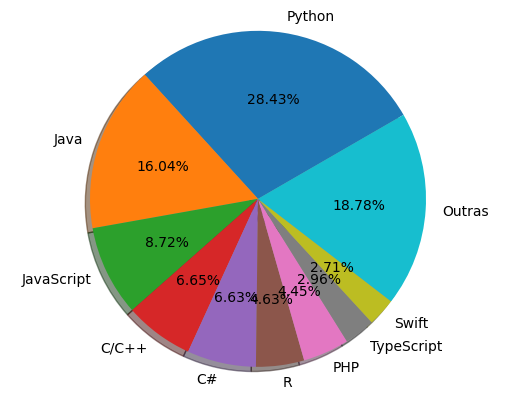
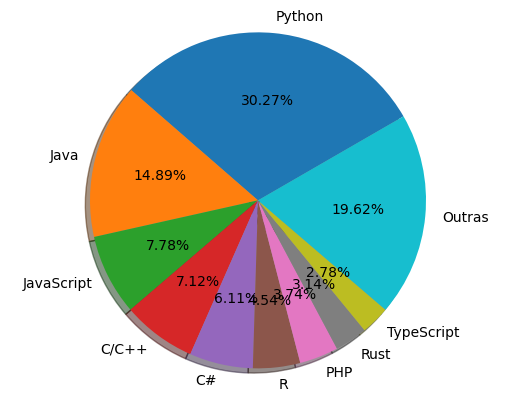
Build site at 2025-03-21 12:40:29 UTC

diff --git a/docs/popularidade/index.html b/docs/popularidade/index.html
@@ -1415,181 +1415,187 @@
     <tr>
       <td style="text-align: center">1</td>
       <td style="text-align: left">Python</td>
-      <td style="text-align: center">28.43</td>
-      <td style="text-align: center">+0.7</td>
+      <td style="text-align: center">30.27</td>
+      <td style="text-align: center">+1.8</td>
     </tr>
     <tr>
       <td style="text-align: center">2</td>
       <td style="text-align: left">Java</td>
-      <td style="text-align: center">16.04</td>
-      <td style="text-align: center">-0.1</td>
+      <td style="text-align: center">14.89</td>
+      <td style="text-align: center">-0.9</td>
     </tr>
     <tr>
       <td style="text-align: center">3</td>
       <td style="text-align: left">JavaScript</td>
-      <td style="text-align: center">8.72</td>
-      <td style="text-align: center">-0.8</td>
+      <td style="text-align: center">7.78</td>
+      <td style="text-align: center">-0.9</td>
     </tr>
     <tr>
       <td style="text-align: center">4</td>
       <td style="text-align: left">C/C++</td>
-      <td style="text-align: center">6.65</td>
-      <td style="text-align: center">+0.2</td>
+      <td style="text-align: center">7.12</td>
+      <td style="text-align: center">+0.6</td>
     </tr>
     <tr>
       <td style="text-align: center">5</td>
       <td style="text-align: left">C#</td>
-      <td style="text-align: center">6.63</td>
-      <td style="text-align: center">-0.2</td>
+      <td style="text-align: center">6.11</td>
+      <td style="text-align: center">-0.6</td>
     </tr>
     <tr>
       <td style="text-align: center">6</td>
       <td style="text-align: left">R</td>
-      <td style="text-align: center">4.63</td>
-      <td style="text-align: center">+0.2</td>
+      <td style="text-align: center">4.54</td>
+      <td style="text-align: center">-0.1</td>
     </tr>
     <tr>
       <td style="text-align: center">7</td>
       <td style="text-align: left">PHP</td>
-      <td style="text-align: center">4.45</td>
+      <td style="text-align: center">3.74</td>
       <td style="text-align: center">-0.7</td>
     </tr>
     <tr>
       <td style="text-align: center">8</td>
-      <td style="text-align: left">TypeScript</td>
-      <td style="text-align: center">2.96</td>
-      <td style="text-align: center">+0.0</td>
+      <td style="text-align: left">Rust</td>
+      <td style="text-align: center">3.14</td>
+      <td style="text-align: center">+0.6</td>
     </tr>
     <tr>
       <td style="text-align: center">9</td>
-      <td style="text-align: left">Swift</td>
-      <td style="text-align: center">2.71</td>
-      <td style="text-align: center">+0.4</td>
+      <td style="text-align: left">TypeScript</td>
+      <td style="text-align: center">2.78</td>
+      <td style="text-align: center">-0.1</td>
     </tr>
     <tr>
       <td style="text-align: center">10</td>
-      <td style="text-align: left">Rust</td>
-      <td style="text-align: center">2.53</td>
-      <td style="text-align: center">+0.4</td>
+      <td style="text-align: left">Objective-C</td>
+      <td style="text-align: center">2.74</td>
+      <td style="text-align: center">+0.3</td>
     </tr>
     <tr>
       <td style="text-align: center">11</td>
-      <td style="text-align: left">Objective-C</td>
-      <td style="text-align: center">2.43</td>
-      <td style="text-align: center">+0.3</td>
+      <td style="text-align: left">Swift</td>
+      <td style="text-align: center">2.44</td>
+      <td style="text-align: center">-0.3</td>
     </tr>
     <tr>
       <td style="text-align: center">12</td>
       <td style="text-align: left">Go</td>
-      <td style="text-align: center">2.16</td>
-      <td style="text-align: center">+0.2</td>
+      <td style="text-align: center">2.06</td>
+      <td style="text-align: center">-0.2</td>
     </tr>
     <tr>
       <td style="text-align: center">13</td>
       <td style="text-align: left">Kotlin</td>
-      <td style="text-align: center">1.93</td>
+      <td style="text-align: center">1.9</td>
       <td style="text-align: center">+0.0</td>
     </tr>
     <tr>
       <td style="text-align: center">14</td>
       <td style="text-align: left">Matlab</td>
-      <td style="text-align: center">1.54</td>
-      <td style="text-align: center">-0.1</td>
+      <td style="text-align: center">1.68</td>
+      <td style="text-align: center">+0.1</td>
     </tr>
     <tr>
       <td style="text-align: center">15</td>
-      <td style="text-align: left">Dart</td>
-      <td style="text-align: center">1.01</td>
-      <td style="text-align: center">+0.2</td>
+      <td style="text-align: left">Ada</td>
+      <td style="text-align: center">1.33</td>
+      <td style="text-align: center">+0.3</td>
     </tr>
     <tr>
       <td style="text-align: center">16</td>
-      <td style="text-align: left">Ada</td>
-      <td style="text-align: center">0.99</td>
+      <td style="text-align: left">Dart</td>
+      <td style="text-align: center">1.03</td>
       <td style="text-align: center">-0.0</td>
     </tr>
     <tr>
       <td style="text-align: center">17</td>
       <td style="text-align: left">Ruby</td>
-      <td style="text-align: center">0.97</td>
-      <td style="text-align: center">-0.1</td>
+      <td style="text-align: center">1.01</td>
+      <td style="text-align: center">+0.0</td>
     </tr>
     <tr>
       <td style="text-align: center">18</td>
-      <td style="text-align: left">VBA</td>
-      <td style="text-align: center">0.91</td>
-      <td style="text-align: center">-0.0</td>
+      <td style="text-align: left">Lua</td>
+      <td style="text-align: center">0.96</td>
+      <td style="text-align: center">+0.2</td>
     </tr>
     <tr>
       <td style="text-align: center">19</td>
       <td style="text-align: left">Powershell</td>
-      <td style="text-align: center">0.76</td>
-      <td style="text-align: center">-0.2</td>
+      <td style="text-align: center">0.95</td>
+      <td style="text-align: center">+0.0</td>
     </tr>
     <tr>
       <td style="text-align: center">20</td>
-      <td style="text-align: left">Lua</td>
-      <td style="text-align: center">0.61</td>
+      <td style="text-align: left">VBA</td>
+      <td style="text-align: center">0.9</td>
       <td style="text-align: center">+0.0</td>
     </tr>
     <tr>
       <td style="text-align: center">21</td>
-      <td style="text-align: left">Abap</td>
-      <td style="text-align: center">0.6</td>
-      <td style="text-align: center">+0.1</td>
+      <td style="text-align: left">Scala</td>
+      <td style="text-align: center">0.59</td>
+      <td style="text-align: center">-0.0</td>
     </tr>
     <tr>
       <td style="text-align: center">22</td>
-      <td style="text-align: left">Scala</td>
-      <td style="text-align: center">0.58</td>
-      <td style="text-align: center">-0.1</td>
+      <td style="text-align: left">Abap</td>
+      <td style="text-align: center">0.51</td>
+      <td style="text-align: center">-0.0</td>
     </tr>
     <tr>
       <td style="text-align: center">23</td>
       <td style="text-align: left">Visual Basic</td>
-      <td style="text-align: center">0.42</td>
-      <td style="text-align: center">-0.2</td>
+      <td style="text-align: center">0.43</td>
+      <td style="text-align: center">-0.1</td>
     </tr>
     <tr>
       <td style="text-align: center">24</td>
-      <td style="text-align: left">Groovy</td>
-      <td style="text-align: center">0.35</td>
-      <td style="text-align: center">-0.0</td>
+      <td style="text-align: left">Julia</td>
+      <td style="text-align: center">0.39</td>
+      <td style="text-align: center">+0.1</td>
     </tr>
     <tr>
       <td style="text-align: center">25</td>
-      <td style="text-align: left">Julia</td>
-      <td style="text-align: center">0.33</td>
-      <td style="text-align: center">-0.1</td>
-    </tr>
-    <tr>
-      <td style="text-align: center">26</td>
-      <td style="text-align: left">Perl</td>
-      <td style="text-align: center">0.22</td>
-      <td style="text-align: center">-0.1</td>
-    </tr>
-    <tr>
-      <td style="text-align: center">27</td>
-      <td style="text-align: left">Haskell</td>
+      <td style="text-align: left">Groovy</td>
       <td style="text-align: center">0.17</td>
       <td style="text-align: center">-0.1</td>
     </tr>
     <tr>
+      <td style="text-align: center">26</td>
+      <td style="text-align: left">Zig</td>
+      <td style="text-align: center">0.17</td>
+      <td style="text-align: center">+0.1</td>
+    </tr>
+    <tr>
+      <td style="text-align: center">27</td>
+      <td style="text-align: left">Haskell</td>
+      <td style="text-align: center">0.15</td>
+      <td style="text-align: center">-0.0</td>
+    </tr>
+    <tr>
       <td style="text-align: center">28</td>
       <td style="text-align: left">Cobol</td>
-      <td style="text-align: center">0.14</td>
-      <td style="text-align: center">-0.2</td>
+      <td style="text-align: center">0.11</td>
+      <td style="text-align: center">-0.0</td>
     </tr>
     <tr>
       <td style="text-align: center">29</td>
+      <td style="text-align: left">Perl</td>
+      <td style="text-align: center">0.07</td>
+      <td style="text-align: center">-0.1</td>
+    </tr>
+    <tr>
+      <td style="text-align: center">30</td>
       <td style="text-align: left">Delphi/Pascal</td>
-      <td style="text-align: center">0.13</td>
-      <td style="text-align: center">-0.0</td>
+      <td style="text-align: center">0.03</td>
+      <td style="text-align: center">-0.1</td>
     </tr>
   </tbody>
 </table>
 
-<p class="small"><strong><em>Mundialmente em abril de 2024, comparado a um ano antes</em></strong></p>
+<p class="small"><strong><em>Mundialmente em março de 2025, comparado a um ano antes</em></strong></p>
 
 
   
@@ -1597,7 +1603,7 @@
 
 <hr>
 <p class="small">
-  <i> Página atualizada em 10/04/24</i>
+  <i> Página atualizada em 21/03/25</i>
 </p>
 
 

diff --git a/docs/material/exercicios/lista1.html b/docs/material/exercicios/lista1.html
@@ -35,7 +35,7 @@
 <meta name="twitter:card" content="summary" />
 <meta property="twitter:title" content="Primeira Lista" />
 <script type="application/ld+json">
-{"@context":"https://schema.org","@type":"WebPage","author":{"@type":"Person","name":"Luiz T. F. Eleno"},"dateModified":"2025-03-10T10:29:43-03:00","description":"Computação Científica em Python - uma disciplina do curso de Engenharia Física da Escola de Engenharia de Lorena da Universidade de São Paulo - EEL USP","headline":"Primeira Lista","url":"https://computeel.org/LOM3260/material/exercicios/lista1.html"}</script>
+{"@context":"https://schema.org","@type":"WebPage","author":{"@type":"Person","name":"Luiz T. F. Eleno"},"dateModified":"2025-03-21T09:40:11-03:00","description":"Computação Científica em Python - uma disciplina do curso de Engenharia Física da Escola de Engenharia de Lorena da Universidade de São Paulo - EEL USP","headline":"Primeira Lista","url":"https://computeel.org/LOM3260/material/exercicios/lista1.html"}</script>
 <!-- End Jekyll SEO tag -->
 
   

diff --git a/docs/index.html b/docs/index.html
@@ -1436,7 +1436,7 @@
 
 </div>
 
-<p class="small"><strong><em>Última atualização: 21/03/2025 09:40:01</em></strong></p>
+<p class="small"><strong><em>Última atualização: 21/03/2025 09:40:25</em></strong></p>
 
 
 

diff --git a/material/sobre/01-introdução.md b/material/sobre/01-introdução.md
@@ -4,7 +4,7 @@ parent: sobre
 nav_order: 0
 tags: [introdução, pypl, python, popularity]
 permalink: /popularidade/
-timestamp: '10/04/24'
+timestamp: '21/03/25'
 ---
 
 Python é a linguagem mais popular e a que mais cresce mundialmente
@@ -18,35 +18,36 @@ O **índice PYPL** (*PopularitY of Programming Language*) é obtido analisando a
 
 | Posição	| Linguagem |	Fatia (%)	| Tendência (%) |
 |:-------:|:--------- |:-----:|:---------:|
-| 1 | Python |          28.43  | +0.7  |
-| 2 | Java |          16.04  | -0.1  |
-| 3 | JavaScript |          8.72  | -0.8  |
-| 4 | C/C++ |          6.65  | +0.2  |
-| 5 | C# |          6.63  | -0.2  |
-| 6 | R |          4.63  | +0.2  |
-| 7 | PHP |          4.45  | -0.7  |
-| 8 | TypeScript |          2.96  | +0.0  |
-| 9 | Swift |          2.71  | +0.4  |
-| 10 | Rust |          2.53  | +0.4  |
-| 11 | Objective-C |          2.43  | +0.3  |
-| 12 | Go |          2.16  | +0.2  |
-| 13 | Kotlin |          1.93  | +0.0  |
-| 14 | Matlab |          1.54  | -0.1  |
-| 15 | Dart |          1.01  | +0.2  |
-| 16 | Ada |          0.99  | -0.0  |
-| 17 | Ruby |          0.97  | -0.1  |
-| 18 | VBA |          0.91  | -0.0  |
-| 19 | Powershell |          0.76  | -0.2  |
-| 20 | Lua |          0.61  | +0.0  |
-| 21 | Abap |          0.6  | +0.1  |
-| 22 | Scala |          0.58  | -0.1  |
-| 23 | Visual Basic |          0.42  | -0.2  |
-| 24 | Groovy |          0.35  | -0.0  |
-| 25 | Julia |          0.33  | -0.1  |
-| 26 | Perl |          0.22  | -0.1  |
-| 27 | Haskell |          0.17  | -0.1  |
-| 28 | Cobol |          0.14  | -0.2  |
-| 29 | Delphi/Pascal |          0.13  | -0.0  |
+| 1 | Python |          30.27  | +1.8  |
+| 2 | Java |          14.89  | -0.9  |
+| 3 | JavaScript |          7.78  | -0.9  |
+| 4 | C/C++ |          7.12  | +0.6  |
+| 5 | C# |          6.11  | -0.6  |
+| 6 | R |          4.54  | -0.1  |
+| 7 | PHP |          3.74  | -0.7  |
+| 8 | Rust |          3.14  | +0.6  |
+| 9 | TypeScript |          2.78  | -0.1  |
+| 10 | Objective-C |          2.74  | +0.3  |
+| 11 | Swift |          2.44  | -0.3  |
+| 12 | Go |          2.06  | -0.2  |
+| 13 | Kotlin |          1.9  | +0.0  |
+| 14 | Matlab |          1.68  | +0.1  |
+| 15 | Ada |          1.33  | +0.3  |
+| 16 | Dart |          1.03  | -0.0  |
+| 17 | Ruby |          1.01  | +0.0  |
+| 18 | Lua |          0.96  | +0.2  |
+| 19 | Powershell |          0.95  | +0.0  |
+| 20 | VBA |          0.9  | +0.0  |
+| 21 | Scala |          0.59  | -0.0  |
+| 22 | Abap |          0.51  | -0.0  |
+| 23 | Visual Basic |          0.43  | -0.1  |
+| 24 | Julia |          0.39  | +0.1  |
+| 25 | Groovy |          0.17  | -0.1  |
+| 26 | Zig |          0.17  | +0.1  |
+| 27 | Haskell |          0.15  | -0.0  |
+| 28 | Cobol |          0.11  | -0.0  |
+| 29 | Perl |          0.07  | -0.1  |
+| 30 | Delphi/Pascal |          0.03  | -0.1  |
 
-***Mundialmente em abril de 2024, comparado a um ano antes***
+***Mundialmente em março de 2025, comparado a um ano antes***
 {: .small}
